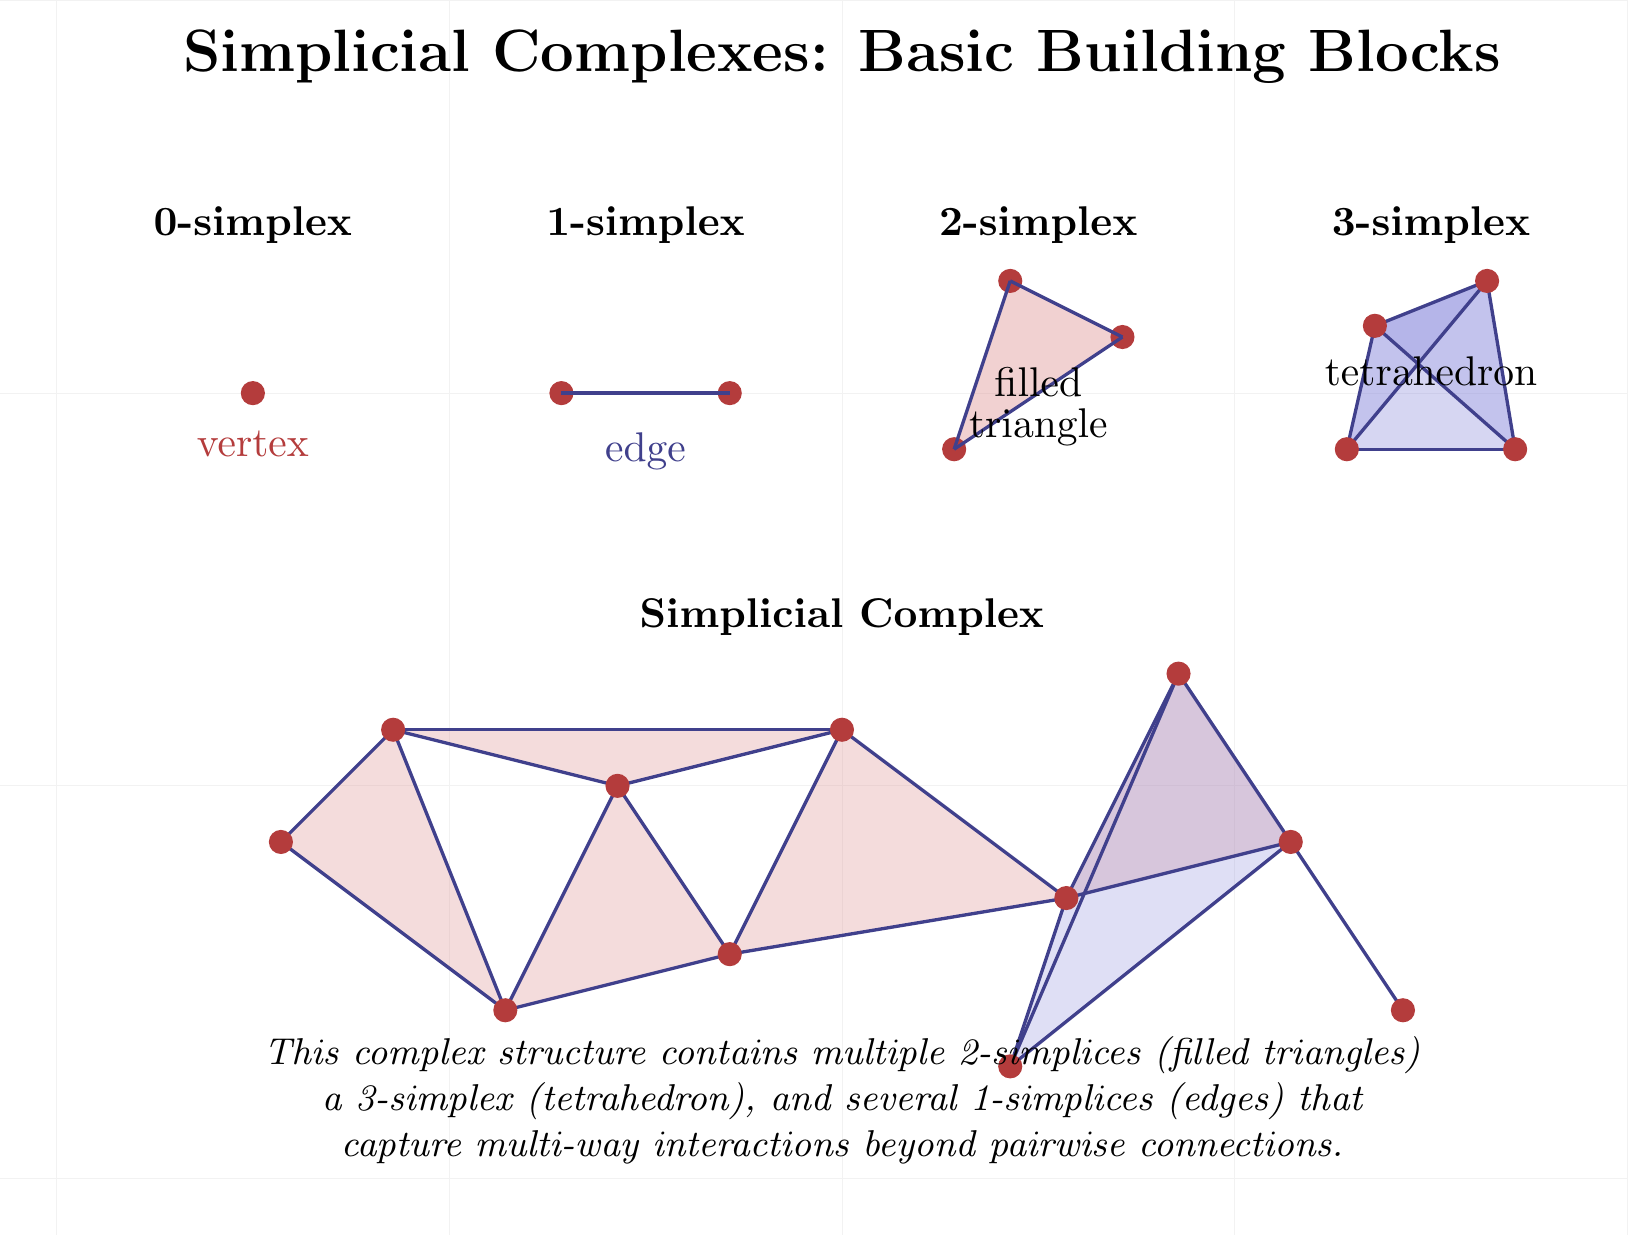
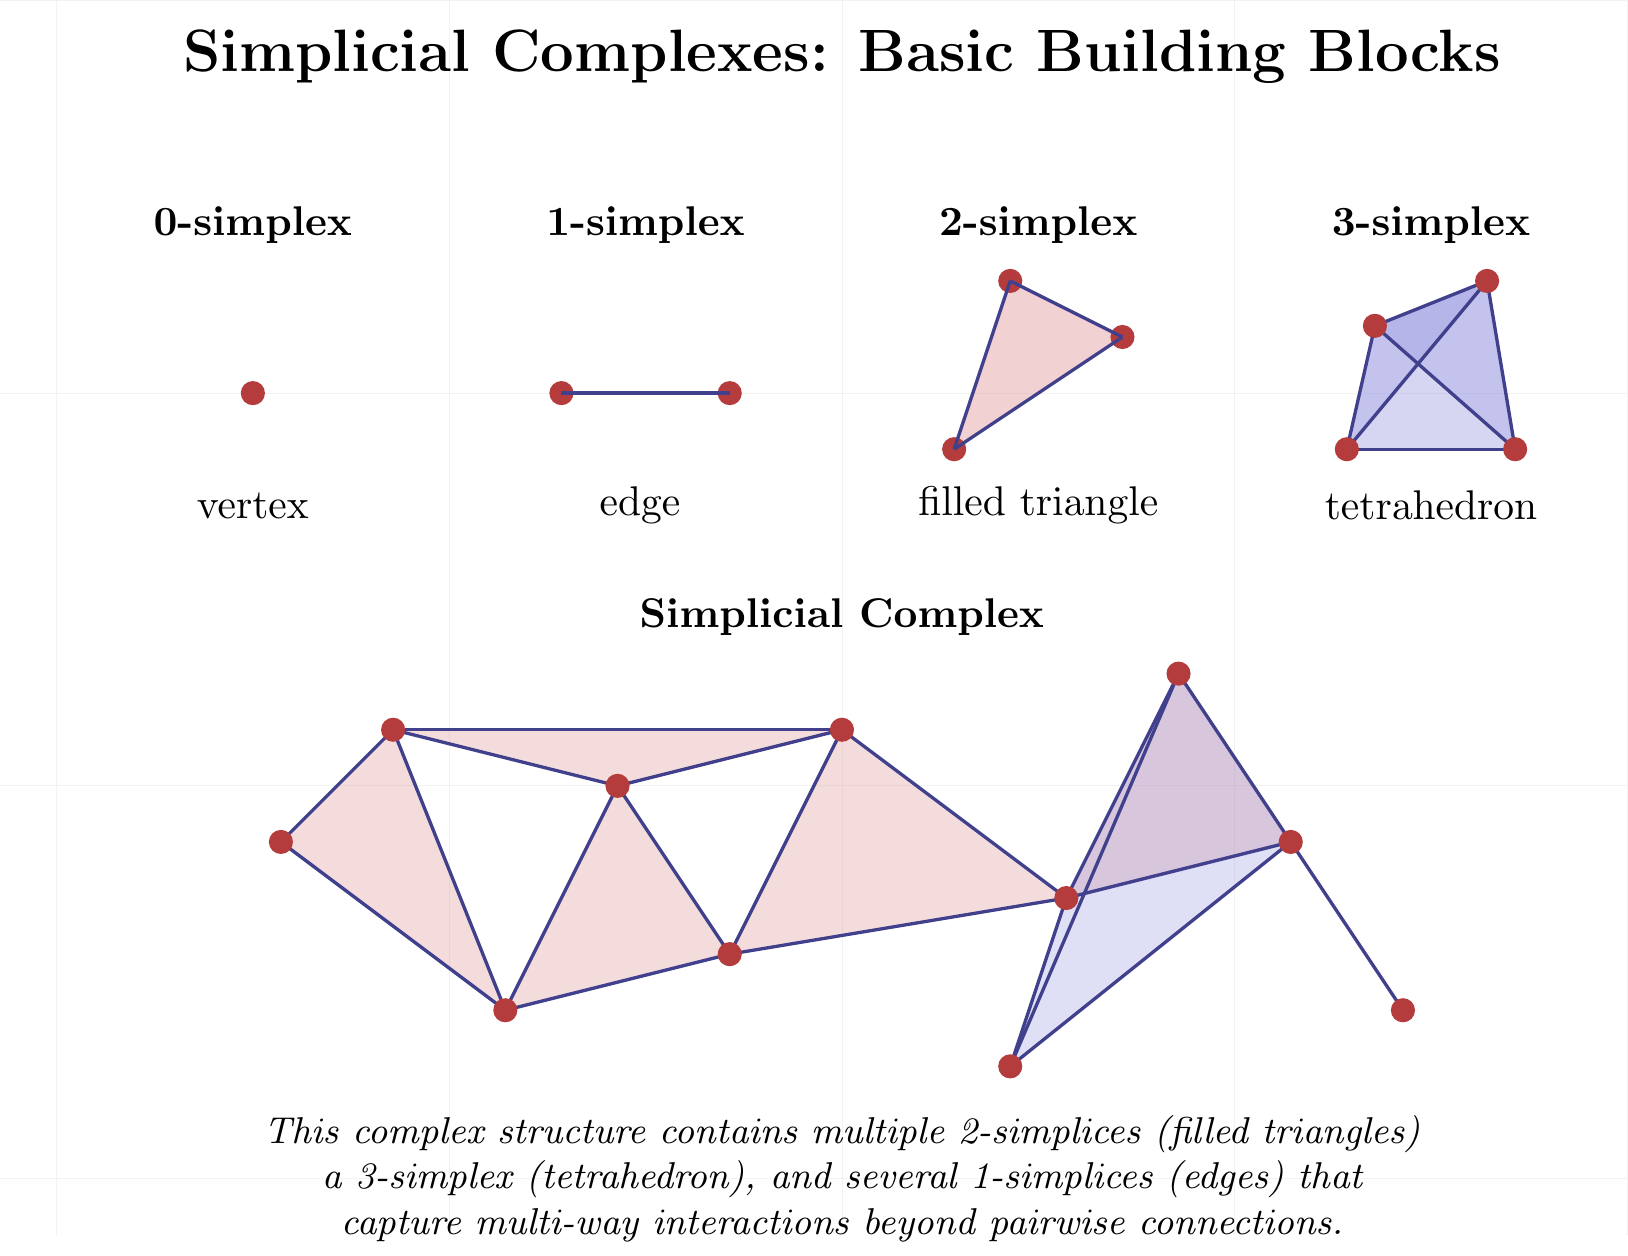
align text in diagrams

diff --git a/figures/simplicial_complexes.tex b/figures/simplicial_complexes.tex
@@ -20,13 +20,15 @@
 
   % 0-simplex (Point)
   \node[font=\bfseries] at (1.75,8.5) {0-simplex};
-  \filldraw[nodecolor] (1.75,7) circle (0.1) node[below=0.2cm] {vertex};
+  \filldraw[nodecolor] (1.75,7) circle (0.1);
+  \node at (1.75,6.0) {vertex};
 
   % 1-simplex (Edge)
   \node[font=\bfseries] at (5.25,8.5) {1-simplex};
   \filldraw[nodecolor] (4.5,7) circle (0.1);
   \filldraw[nodecolor] (6,7) circle (0.1);
-  \draw[thick, edgecolor] (4.5,7) -- (6,7) node[midway, below=0.2cm] {edge};
+  \draw[thick, edgecolor] (4.5,7) -- (6,7);
+  \node at (5.2,6.0) {edge};
 
   % 2-simplex (Filled triangle)
   \node[font=\bfseries] at (8.75,8.5) {2-simplex};
@@ -37,8 +39,7 @@
   \draw[thick, edgecolor] (8,6.5) -- (9.5,7.5);
   \draw[thick, edgecolor] (9.5,7.5) -- (8.5,8);
   \draw[thick, edgecolor] (8.5,8) -- (8,6.5);
-  \node at (8.75,7.1) {filled};
-  \node at (8.75,6.7) {triangle};
+  \node at (8.75,6.0) {filled triangle};
 
   % 3-simplex (Tetrahedron) with perspective
   \node[font=\bfseries] at (12.25,8.5) {3-simplex};
@@ -71,7 +72,7 @@
   \filldraw[nodecolor] (C) circle (0.1);
   \filldraw[nodecolor] (D) circle (0.1);
 
-  \node at (12.25,7.2) {tetrahedron};
+  \node at (12.25,6.0) {tetrahedron};
 
   % Complex simplicial complex example
   \node[font=\bfseries] at (7,5) {Simplicial Complex};
@@ -138,6 +139,6 @@
   \filldraw[nodecolor] (V11) circle (0.1);
 
   % Annotations
-  \node[align=center, font=\small\itshape] at (7,0.7) {This complex structure contains multiple 2-simplices (filled triangles)\\a 3-simplex (tetrahedron), and several 1-simplices (edges) that\\capture multi-way interactions beyond pairwise connections.};
+  \node[align=center, font=\small\itshape] at (7,0) {This complex structure contains multiple 2-simplices (filled triangles)\\a 3-simplex (tetrahedron), and several 1-simplices (edges) that\\capture multi-way interactions beyond pairwise connections.};
 \end{tikzpicture}
 \end{document}
